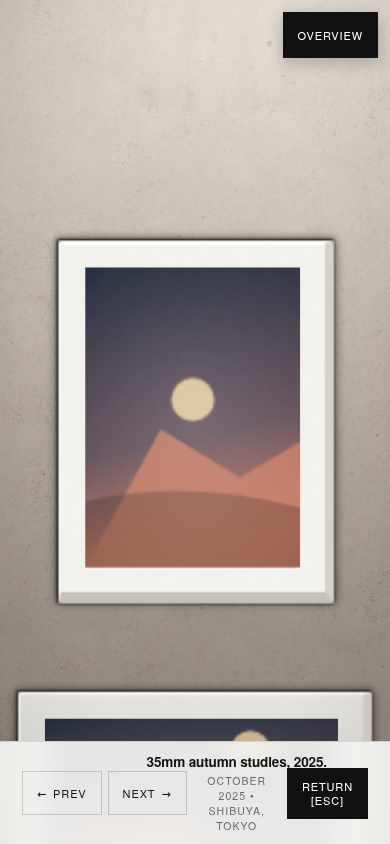
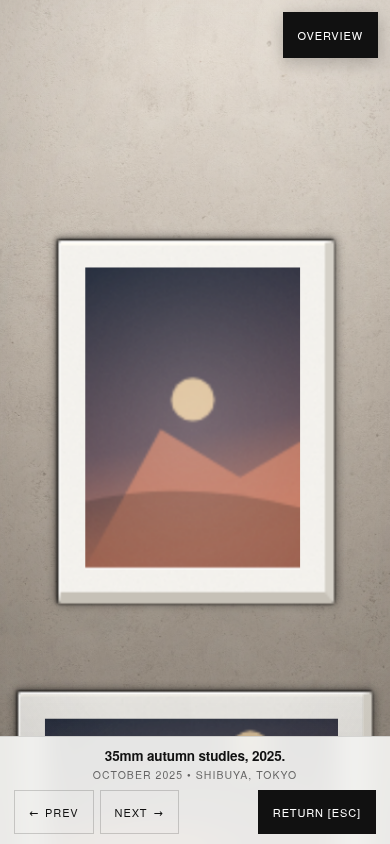
fix(hud): stack mobile photo-focus-bar caption cleanly above 44px controls

Changed region(s): [[0.0, 0.8626, 1.0, 1.0], [0.1231, 0.9242, 0.2154, 0.9858], [0.0308, 0.9242, 0.0615, 0.9858]]

diff --git a/src/styles/hud.css b/src/styles/hud.css
@@ -235,6 +235,21 @@
     padding: 10px 14px;
   }
 
+  .photo-focus-bar {
+    flex-wrap: wrap;
+    gap: 8px 10px;
+    padding: 10px 14px calc(10px + env(safe-area-inset-bottom, 0px));
+  }
+
+  .photo-focus-info {
+    order: -1;
+    flex: 1 0 100%;
+  }
+
+  .photo-focus-title {
+    max-width: 100%;
+  }
+
   .hud-directory {
     bottom: 88px;
     max-width: calc(100vw - 24px);
